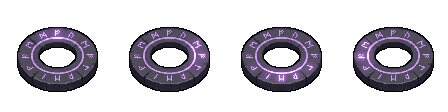
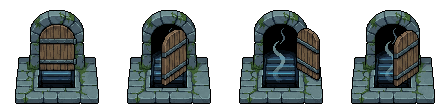
art(hamlet): replace flat ritual-ring portal with stone cellar archway
Drops in the new dungeon-portal asset — a side-view stone archway
with iron-bound wooden door swinging open and stone steps
descending into pitch-black depths illuminated by a cold blue glow
rising from below. Pixel art at 112x112 native, 4-frame open/close
breathing animation.

WHAT CHANGED
- public/assets/hamlet/fx_portal.png replaced with stitched 448x112
  horizontal sheet from the new asset's animation frames (south
  rotation, 4 frames: closed -> ajar -> fully open -> closing).
  Sprite-sheet format matches the existing HAMLET_FX entry exactly,
  so no code shape changes needed.

- HAMLET_FX portal_shadow entry removed from the FX list. The
  previous portal was a flat ritual ring + violet breathing void
  underneath. The new portal is its own complete visual: flagstones
  built into the sprite, blue glow internal. A purple breathing
  void around it would clash both in palette (violet vs cold-blue)
  and in concept (no ritual ring to embellish anymore). The asset
  fx_portal_shadow stays loaded for future reuse.

- drawPortal halo recolored from warm orange (rgba 255,180,90) to
  cold blue (rgba 120,170,230 at center with rgba 90,140,210 falloff)
  to match the new sprite's "cold blue glow from below" identity.
  Pulse rhythm and radius unchanged — calm 0.85-1.0 sine, 56px
  radius. Three-stop gradient instead of two-stop for a softer edge.

WHY THE CHANGE
Old portal read as a magic ritual ring with mystic energy. The new
[…]

diff --git a/slime-depths/src/hamletScene.js b/slime-depths/src/hamletScene.js
@@ -353,25 +353,14 @@ const HAMLET_FX = [
   },
   // pit_cover REMOVED for v4 — there's no painted pit at the central
   // plaza in the no-wall layout. Asset + loader entry kept on disk.
-  {
-    // Portal shadow (ANIMATED breathing void). 16 frames × 200×200
-    // native, sine-wave breath cycle. Scale 0.6× → 120px rendered.
-    //
-    // Color tuned: deep midnight violet (RGB 10,6,24) instead of the
-    // earlier brownish (25,20,18) which read as 'grime' or 'stain.'
-    // The cooler tone + zero green channel kills brown undertones —
-    // reads as 'magical void' rather than 'dirty spot.'
-    //
-    // Animation: each frame's gradient pulses subtly — alpha 220-250
-    // and radius ±2px — over a 4s cycle (16 frames at 4fps). Reads
-    // as 'dark energy slowly pulling inward,' an alive magical
-    // boundary rather than a static texture.
-    id: 'portal_shadow', asset: 'fx_portal_shadow',
-    x: 963, y: 654,
-    frameW: 200, frameH: 200,
-    frameCount: 16, fps: 4,
-    scale: 0.63, yOffset: 0,
-  },
+  // Portal shadow REMOVED in the new-portal pass. The previous portal
+  // was a flat ritual ring + violet breathing void underneath. The
+  // new portal sprite (stone cellar archway with descending stairs and
+  // a cold blue glow rising from below) is its OWN visual — flagstones
+  // built into the sprite, blue glow internal. A purple breathing void
+  // around it would clash both in palette (violet vs cold-blue) and
+  // in concept (no painted ritual ring to embellish anymore).
+  // Asset (fx_portal_shadow) stays in loader.js for future rooms.
   {
     // Portal (simplified holistic config). 4 frames × 112×112 native,
     // scaled 0.9× → ~101px rendered. v4 position (964, 654) sits on the
@@ -656,16 +645,17 @@ function drawGroundShadow(ctx, x, y, radiusX, alpha = 0.22) {
 }
 
 function drawPortal(ctx, e, now) {
-  // Soft warm halo for the descent point. Pulse is intentionally CALM
-  // (range 0.7-1.0, slow freq) so it reads as ambient atmosphere
-  // rather than active animation. The previous 0.1-1.0 pulse with
-  // additive blend made surrounding tiles visibly brighten/dim every
-  // cycle, which read as the whole map "breathing."
+  // Soft cold halo for the descent point — recolored cold blue to match
+  // the new portal sprite's "blue glow rising from below" identity (the
+  // cellar entrance with stairs going down into pitch-black depths
+  // illuminated by a faint blue glow). Pulse stays CALM (range 0.7-1.0,
+  // slow freq) so it reads as ambient atmosphere rather than animation.
   const pulse = 0.85 + 0.15 * Math.sin(now * 0.6);
   const haloR = 56;
   const halo = ctx.createRadialGradient(e.x, e.y + 4, 4, e.x, e.y + 4, haloR);
-  halo.addColorStop(0, `rgba(255, 180, 90, ${(0.30 * pulse).toFixed(3)})`);
-  halo.addColorStop(1, 'rgba(255, 180, 90, 0)');
+  halo.addColorStop(0, `rgba(120, 170, 230, ${(0.32 * pulse).toFixed(3)})`);
+  halo.addColorStop(0.5, `rgba(100, 150, 220, ${(0.16 * pulse).toFixed(3)})`);
+  halo.addColorStop(1, 'rgba(90, 140, 210, 0)');
   ctx.fillStyle = halo;
   ctx.fillRect(e.x - haloR, e.y + 4 - haloR, haloR * 2, haloR * 2);
 }
